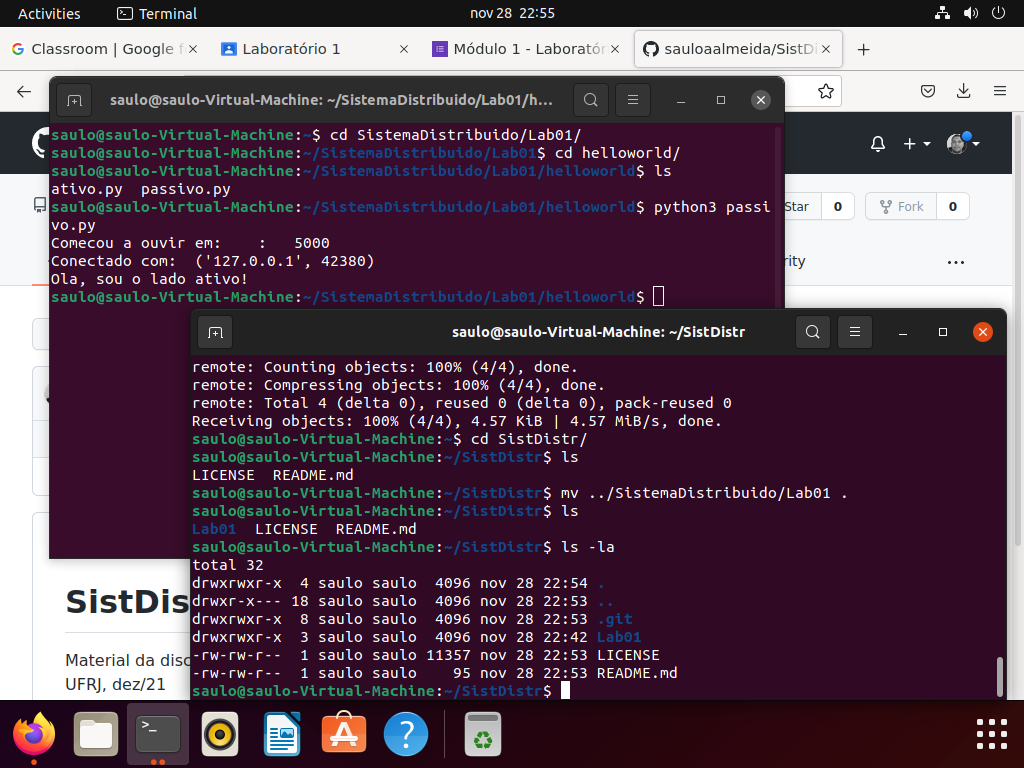
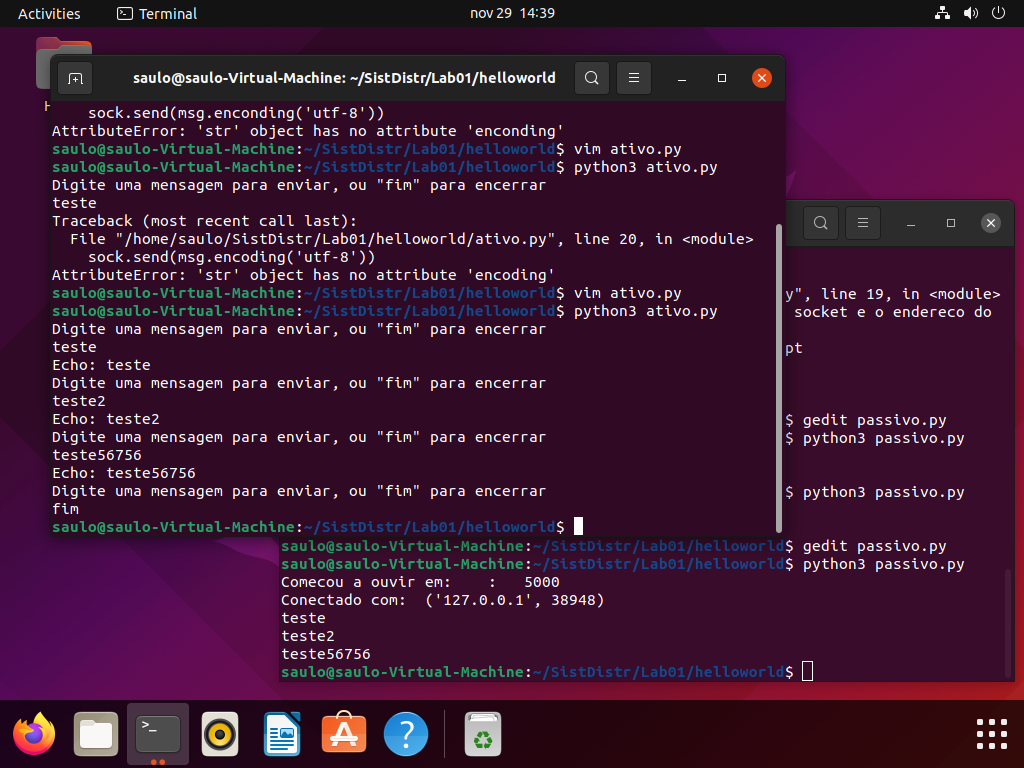
ajustando programar para o servidor de echo

diff --git a/Lab01/helloworld/ativo.py b/Lab01/helloworld/ativo.py
@@ -9,16 +9,18 @@ PORTA = 5000        # porta que o par passivo esta escutando
 sock = socket.socket() # default: socket.AF_INET, socket.SOCK_STREAM 
 
 # conecta-se com o par passivo
-sock.connect((HOST, PORTA)) 
+sock.connect((HOST, PORTA))
 
-# envia uma mensagem para o par conectado
-sock.send(b"Ola, sou o lado ativo!")
+msg = ""
 
-#espera a resposta do par conectado (chamada pode ser BLOQUEANTE)
-msg = sock.recv(1024) # argumento indica a qtde maxima de bytes da mensagem
-
-# imprime a mensagem recebida
-print(str(msg,  encoding='utf-8'))
-
-# encerra a conexao
-sock.close() 
+while msg != "fim":
+     print('Digite uma mensagem para enviar, ou "fim" para encerrar')
+     msg = input()
+     if msg != 'fim':
+          sock.send(msg.encode('utf-8'))
+          #espera a resposta do par conectado (chamada pode ser BLOQUEANTE)
+          msgRcv = sock.recv(1024) # argumento indica a qtde max de bytes da msg
+          print(str(msgRcv,  encoding='utf-8'))
+     else:     
+          # encerra a conexao
+          sock.close() 

diff --git a/Lab01/helloworld/passivo.py b/Lab01/helloworld/passivo.py
@@ -20,12 +20,15 @@ novoSock, endereco = sock.accept() # retorna um novo socket e o endereco do par 
 print ('Conectado com: ', endereco)
 
 while True:
-	# depois de conectar-se, espera uma mensagem (chamada pode ser BLOQUEANTE))
-	msg = novoSock.recv(1024) # argumento indica a qtde maxima de dados
-	if not msg: break 
-	else: print(str(msg,  encoding='utf-8'))
-	# envia mensagem de resposta
-	novoSock.send(b"Ola, sou o lado passivo!") 
+     # depois de conectar-se, espera uma mensagem (chamada pode ser BLOQUEANTE))
+     msg = novoSock.recv(1024) # argumento indica a qtde maxima de dados
+     if not msg or str(msg,  encoding='utf-8') == 'fim':
+          break
+     else:
+          print(str(msg,  encoding='utf-8'))
+          # envia mensagem de resposta
+          echoMsg = "Echo: " + str(msg,encoding='utf-8')
+          novoSock.send(echoMsg.encode('utf-8'))
 
 # fecha o socket da conexao
 novoSock.close() 
